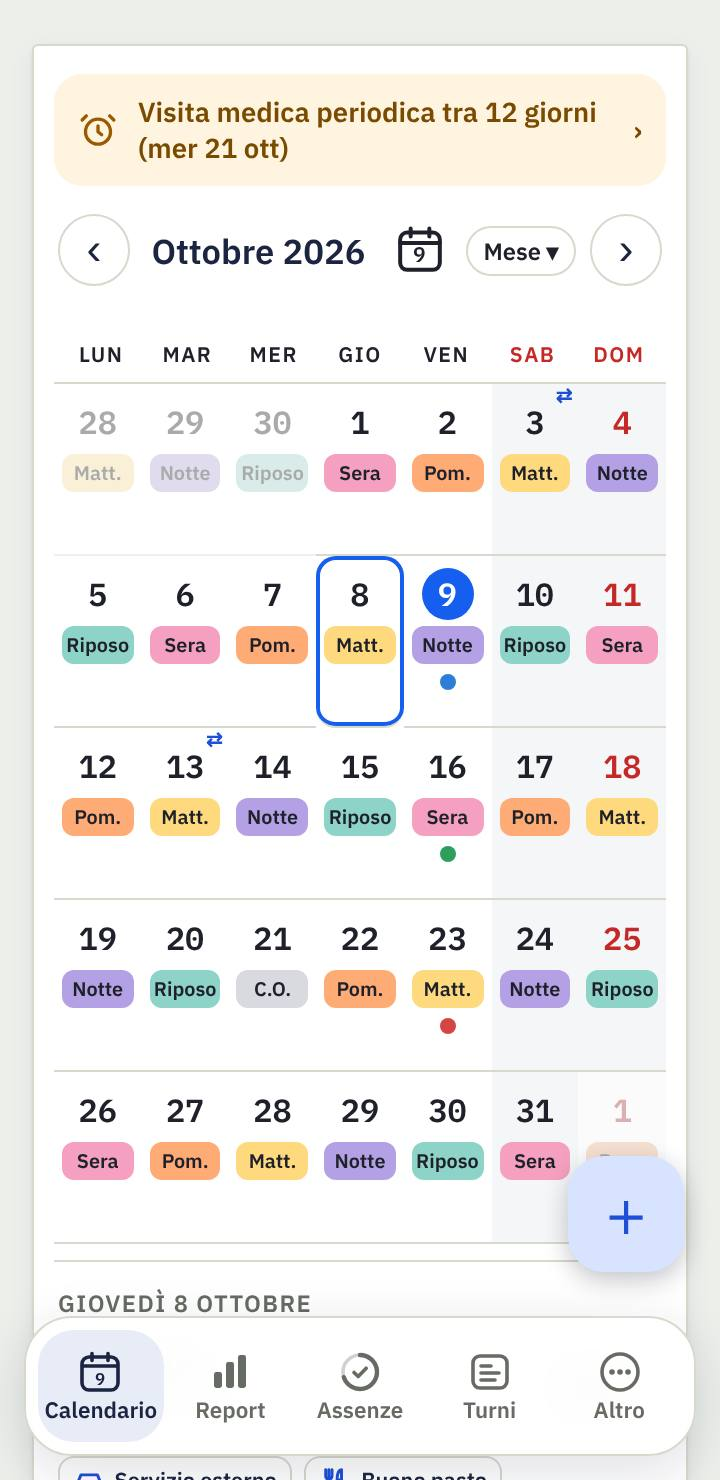
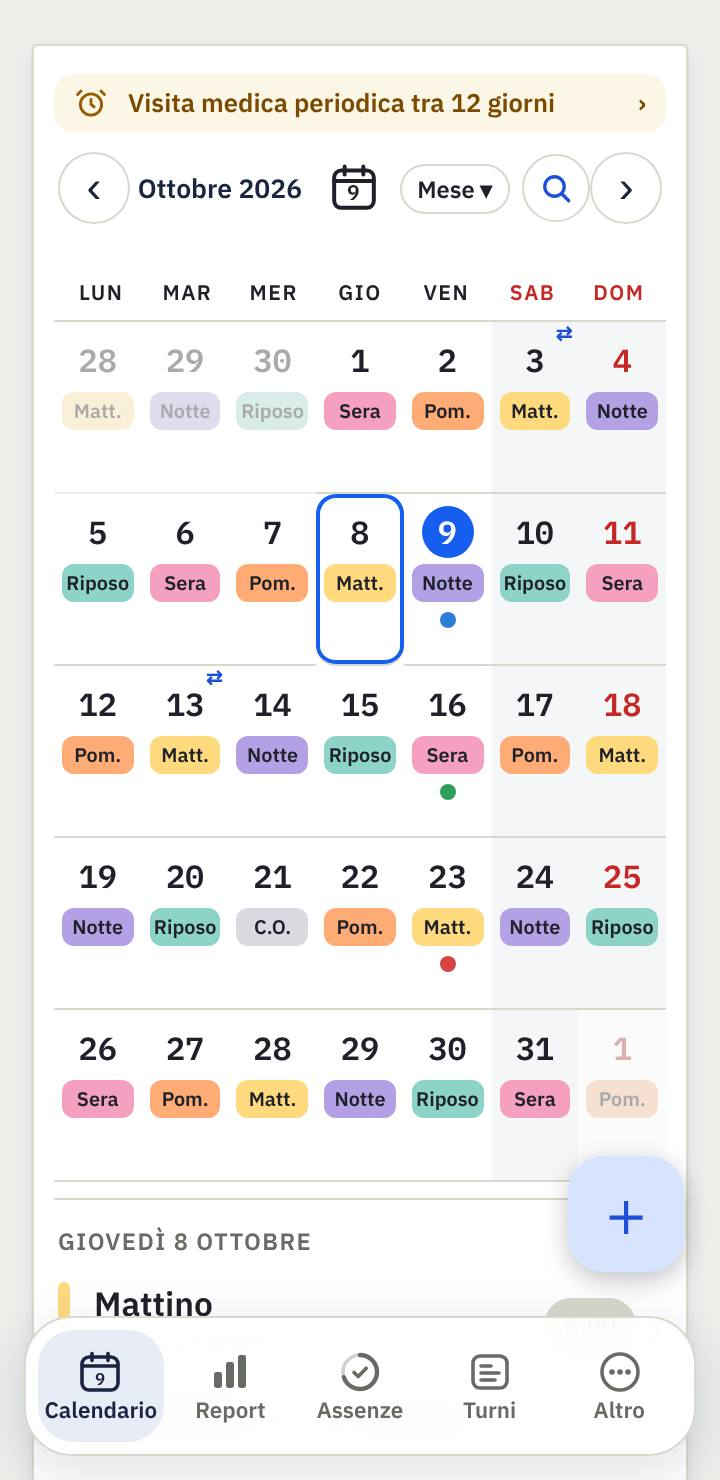
Guida Turni: lente cerca e chiedi, Impostazioni in Altro, foto nuove (v3.8.25)
Claude-Session: https://claude.ai/code/session_01PSeREU5gDDB7bRrUAU7GkJ

Changed region(s): [[0.0611, 0.0622, 0.9472, 0.9014], [0.0917, 0.9946, 0.7028, 1.0], [0.7639, 0.8703, 0.8861, 0.9014]]

diff --git a/guida-turni.html b/guida-turni.html
@@ -23,8 +23,8 @@ a{color:#2E4A8F}
 @media(max-width:600px){.sez{grid-template-columns:1fr}.sez img{width:min(240px,70vw);margin:4px auto 0}.tab td:first-child{white-space:normal}}
 </style></head><body>
 <h1>Guida a Turni & Accessorio PS</h1>
-<p class="agg">Come si usa l'app, passo per passo · aggiornata alla versione 3.8.24</p>
-<nav><a href="#inizio">Primi passi</a><a href="#calendario">Calendario</a><a href="#voce">Detta a voce</a><a href="#giorno">Il giorno e le indennità</a><a href="#sequenza">Turni</a><a href="#report">Report</a><a href="#assenze">Assenze</a><a href="#altro">Altro</a><a href="#promemoria">Promemoria e widget</a><a href="#utilita">Utilità</a><a href="#link">Link utili</a><a href="#backup">Backup</a><a href="#domande">Domande</a></nav>
+<p class="agg">Come si usa l'app, passo per passo · aggiornata alla versione 3.8.25</p>
+<nav><a href="#inizio">Primi passi</a><a href="#calendario">Calendario</a><a href="#cerca">Cerca o chiedi</a><a href="#voce">Detta a voce</a><a href="#giorno">Il giorno e le indennità</a><a href="#sequenza">Turni</a><a href="#report">Report</a><a href="#assenze">Assenze</a><a href="#altro">Altro</a><a href="#promemoria">Promemoria e widget</a><a href="#utilita">Utilità</a><a href="#link">Link utili</a><a href="#backup">Backup</a><a href="#domande">Domande</a></nav>
 
 <h2 id="inizio">1. Primi passi</h2>
 <div class="sez"><div>
@@ -51,8 +51,19 @@ a{color:#2E4A8F}
 <li>Con il pulsantino <b>Mese ▾</b> in alto scegli la vista: <b>Giorno</b> (la giornata a ore), <b>Settimana</b> (un giorno per riga con orario, indennità, straordinario, servizio svolto ed eventi, e il totale delle ore), <b>Mese</b> o <b>Agenda</b>. L'app ricorda l'ultima scelta.</li>
 <li><b>Evento</b> aggiunge visite, corsi, appuntamenti, anche ripetuti, con promemoria. Tocca un'ora nella giornata per scegliere l'orario. In <b>Altre opzioni</b> trovi colore, luogo, note e <b>Suona anche in silenzioso</b>: 10 secondi di suono e vibrazione, anche con il telefono in silenzioso.</li>
 <li>I giorni del mese prima e dopo si vedono sbiaditi; toccandoli si passa a quel mese con il giorno già selezionato.</li>
+<li>Se una <b>scadenza</b> è vicina (entro un mese), compare in una riga sottile sopra il mese; toccandola apri le Scadenze.</li>
 </ul>
 </div><img src="turni/guida/calendario.jpg" alt="Calendario del mese" loading="lazy"></div>
+<h3 id="cerca">Cerca o chiedi (la lente)</h3>
+<div class="sez"><div>
+<p>Tocca la <b>lente 🔍</b> nella barra del mese. Puoi:</p>
+<ul>
+<li><b>cercare una parola</b>: «visita», «stadio», «volante 12». Trova eventi, servizio svolto, note di servizio, uscite del veicolo e scadenze, prima quelli in arrivo e poi i passati;</li>
+<li><b>fare una domanda</b>: «quante notti ho fatto a settembre?», «il 15 agosto che turno ho fatto?», «quanti giorni di congedo mi restano?». In cima compare la risposta, con i giorni da toccare per aprirli nel calendario;</li>
+<li>toccare il <b>microfono</b> accanto per chiedere a voce.</li>
+</ul>
+<p>Con il tasto indietro (o toccando di nuovo la lente) la ricerca si chiude e torni alla vista di prima. L'app cerca solo nei dati sul telefono, senza internet.</p>
+</div><img src="turni/guida/cerca.jpg" alt="Cerca o chiedi: risposta a una domanda" loading="lazy"></div>
 <h3>Le caselle</h3>
 <p>Ogni casella mostra il turno (Sera, Pom., Notte…) e, se c'è, l'evento. Le indennità del giorno le vedi toccando il giorno, scritte per esteso nel riquadro sotto il calendario (per esempio "2 buoni pasto"), e nell'agenda.</p>
 <h3>Agenda</h3>
@@ -213,7 +224,7 @@ a{color:#2E4A8F}
 <li><b>Anagrafica</b>: qualifica (con il distintivo del grado), anni, regione, addizionale comunale, famiglia, sindacato con la quota al mese; facoltativi il reddito e l'addizionale regionale dell'anno scorso (dalla CU). Se manca qualcosa che serve, il Report te lo dice.</li>
 <li><b>Tabelle ufficiali</b>: stipendi, indennità e aliquote usati nei calcoli. Si aggiornano da sole dal sito (vedi <a href="tabelle-turni.html">Tabelle economiche</a>), le addizionali regionali ogni mese dal Ministero. Con <b>Modifica i valori a mano</b> le cambi tu: il valore cambiato si vede in blu, con ↺ torni a quello ufficiale.</li>
 <li><b>Backup</b>: nella sua pagina, sul telefono e su Google Drive.</li>
-<li><b>Tema e colore</b> (Auto, Luce, Chiaro, Grigio, Nero) dell'app.</li>
+<li><b>Impostazioni</b>: una riga che si apre sul posto, con <b>Promemoria del turno</b>, <b>Widget</b>, <b>Tema e colore</b> (Auto, Luce, Chiaro, Grigio, Nero) e <b>Tabelle ufficiali</b>.</li>
 <li><b>Guida all'app</b>: apre questa pagina.</li>
 <li><b>Segnala un problema o un'idea</b>: apre l'email già scritta, con versione e telefono.</li>
 </ul>
@@ -230,7 +241,7 @@ a{color:#2E4A8F}
 
 <h3 id="promemoria">Promemoria del turno</h3>
 <ol>
-<li>In <b>Altro</b> accendi <b>Promemoria del turno</b> (all'inizio è spento).</li>
+<li>In <b>Altro → Impostazioni</b> accendi <b>Promemoria del turno</b> (all'inizio è spento).</li>
 <li>Scegli <b>La sera prima</b> (e l'ora, es. 20:00) oppure <b>Prima dell'inizio</b> (30 minuti, 1 ora o 2 ore prima).</li>
 <li>La prima volta Android chiede il permesso per le notifiche: rispondi <b>Consenti</b>.</li>
 <li>Se compare "⚠ … categoria di notifica spenta" premi <b>Attiva notifiche</b> e accendi <b>Visualizza le notifiche</b> (succede spesso su Xiaomi).</li>
@@ -240,7 +251,7 @@ a{color:#2E4A8F}
 <h3>Widget nella schermata Home</h3>
 <p>Mostra il turno di <b>oggi e domani</b> senza aprire l'app.</p>
 <ol>
-<li>In <b>Altro</b> accendi <b>Widget nella schermata Home</b>.</li>
+<li>In <b>Altro → Impostazioni</b> accendi <b>Widget nella schermata Home</b>.</li>
 <li>Premi <b>＋ Aggiungi alla schermata Home</b> e conferma.</li>
 <li>Se non compare: tieni premuto su uno spazio vuoto della schermata Home → <b>Widget</b> → cerca <b>Turni & Accessorio PS</b> → trascinalo dove vuoi.</li>
 </ol>
